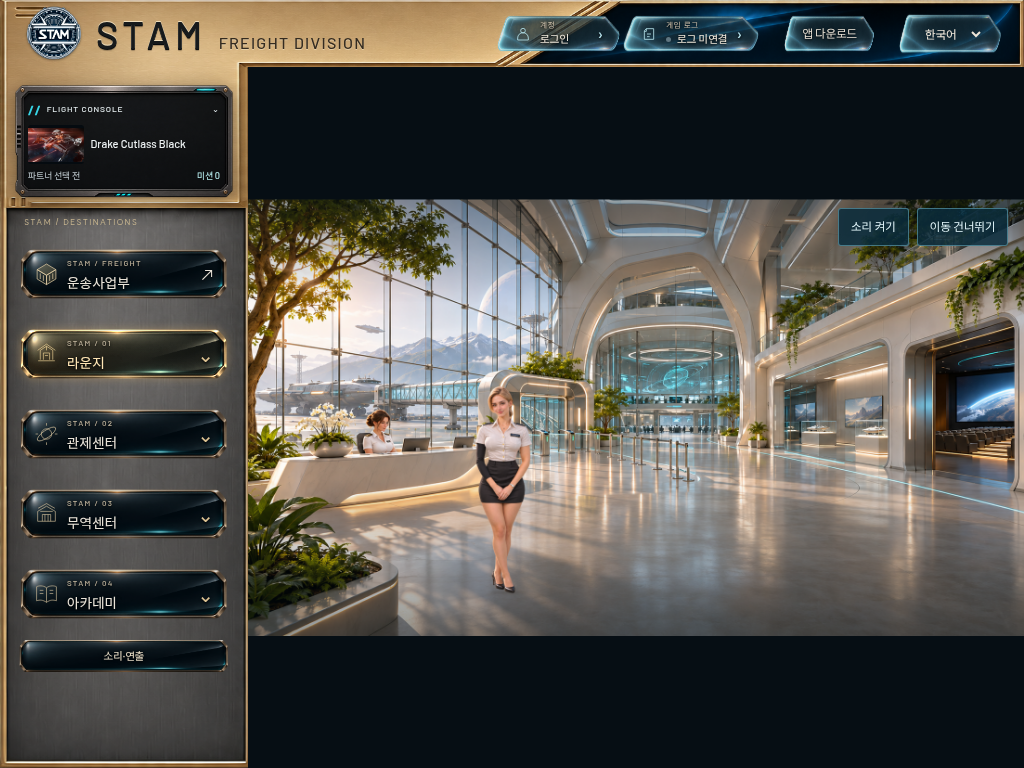
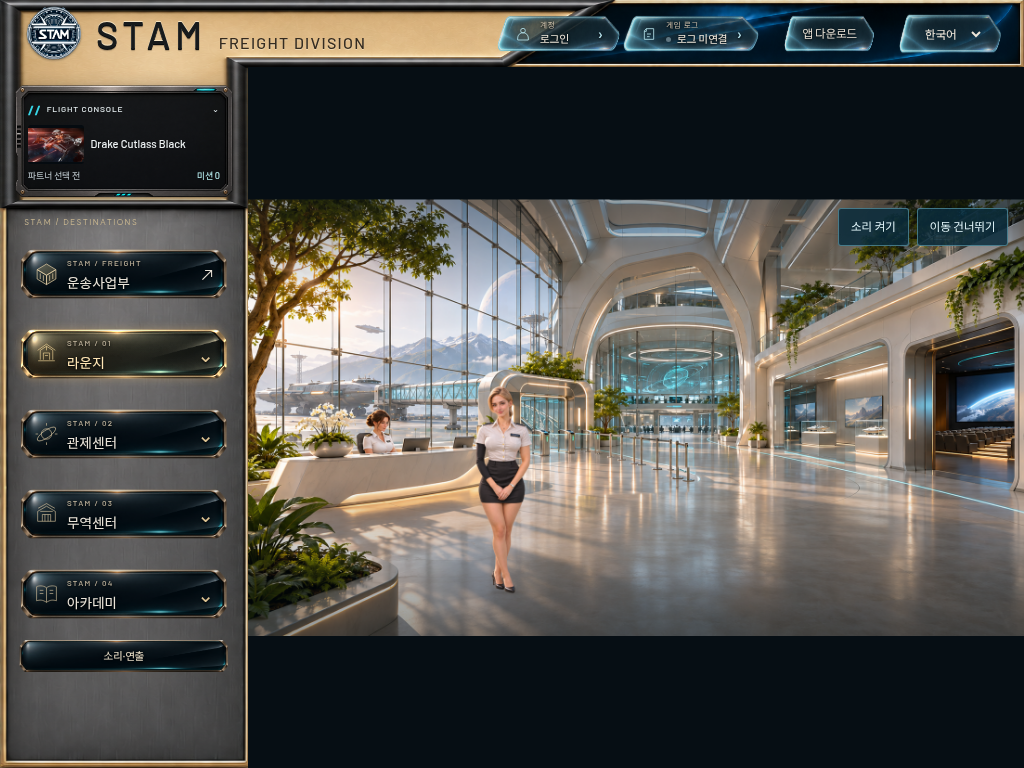
Wrap champagne housing with convex black metal edge

diff --git a/docs/cinematics/shell-layout-fix-20261118/HANDOFF.md b/docs/cinematics/shell-layout-fix-20261118/HANDOFF.md
@@ -8,7 +8,9 @@
 
 금색 이름판을 오른쪽으로 연장하고 곡선 대신 직선 사선으로 바꿨다. `STAM FREIGHT DIVISION`은 한 줄이며 STAM38px, 부제16px의 Barlow500 실제 텍스트다. 원형 로고60px·검은 입체 글씨를 유지했다. 761–1000px에서는44/30/12px로 줄여 버튼과 가로 넘침을 피하고, 모바일은40/27/10px 한 줄 브랜드에 기존 컨트롤을 줄바꿈한다. 데스크톱 상단67px와 장면 셀은 유지한다.
 
-사용자가 회색/백금처럼 보인다고 지적한 시안은 사용하지 않는다. 최신 생성본은 따뜻한 샴페인 골드, 미세한 표면결, 사선 절삭면의 이중 가공 홈과 단차, 모서리의 짧은 가공 표시를 포함한다. 최종 원본 `/workspace/generated_images/exec-b70798fc-6552-40a3-8128-0aad3b63c08e.png`. 중간 시안과 기존 원본은 제작 폴더에 보존했다. `assets/provenance.json`에 최종 출처/해시/일곱 구간을 기록했다.
+사용자가 회색/백금처럼 보인다고 지적한 시안은 사용하지 않는다. 최신 생성본은 따뜻한 샴페인 골드, 미세한 표면결, 사선 절삭면의 이중 가공 홈과 단차, 모서리의 짧은 가공 표시를 포함한다. 최종 원본 `/workspace/generated_images/exec-6b323f54-03a4-4b51-9653-3e6736ce2f8e.png`. 중간 시안과 기존 원본은 제작 폴더에 보존했다. `assets/provenance.json`에 최종 출처/해시/일곱 구간을 기록했다.
+
+최신 후속: 안쪽 장식선 시안은 교체했다. 검은 금속이 금색 하우징의 실제 가장자리를 감싸며, 볼록한 둥근 단면과 각진 맞댐 모서리를 가진다. 상단/사선/안쪽 수평/콘솔 둘레/아래 단차를 연결하고 경로의 모서리는 둥글리지 않았다. 기존 금색·한 줄 글씨·본문 배치를 유지했고 코드/기능 변경은 없다. 중간 시안은 제작 폴더에 보존한다.
 
 상단의 직선 사선 구간 폭은400px(좁은 데스크톱200px), 나머지 유리만 가변 길이를 채운다. Sidebar 하우징은 콘솔 요약 하단과 메뉴 캡션 사이에서 직선 단차로 끝난다. 상세 콘솔은 기존처럼 메뉴 앞에 겹쳐 열린다. ResizeObserver와 스크롤 이벤트는 해제 시 정리한다. 기존 A콘솔/D버튼과 기능 상태는 변경하지 않는다.
 

diff --git a/PROJECT_STATUS.md b/PROJECT_STATUS.md
@@ -1,3 +1,7 @@
+## 2026-11-18 연출 — 가장자리를 감싸는 검은 금속 테두리 / PR #42 미배포
+
+검은 금속 테두리가 금색 하우징의 실제 가장자리를 감싸도록 생성 에셋을 수정했다. 표면 단면은 볼록하게 둥글고, 모서리와 사선 접합은 각진 맞댐 구조다. 안쪽에 띄운 장식선 시안은 교체했다. 기존 금색/한 줄 글씨/본문·기능은 유지. 최종 출처 exec-6b323f54-03a4-4b51-9653-3e6736ce2f8e.png 및 실제 화면은 기존 인계에 갱신. main·공통 인계 병합/배포 없음.
+
 ## 2026-11-18 연출 — 직선 사선·한 줄 브랜드·금색 가공 디테일 / PR #42 미배포
 
 같은 연출 브랜치에서 금색 하우징을 오른쪽으로 늘리고 곡선을 직선 사선으로 교체했다. STAM38px/FREIGHT DIVISION16px 한 줄 Barlow500, 모바일40/27/10px(로고/브랜드/부제). 백금처럼 보였던 중간 시안 대신 따뜻한 샴페인 골드와 사선의 이중 가공 홈·단차·모서리 표시를 가진 최종 에셋을 사용한다. 데스크톱 상단67px/본문·가이드 좌표 및 기능 보존. 좁은 화면 버튼 넘침 보정.
